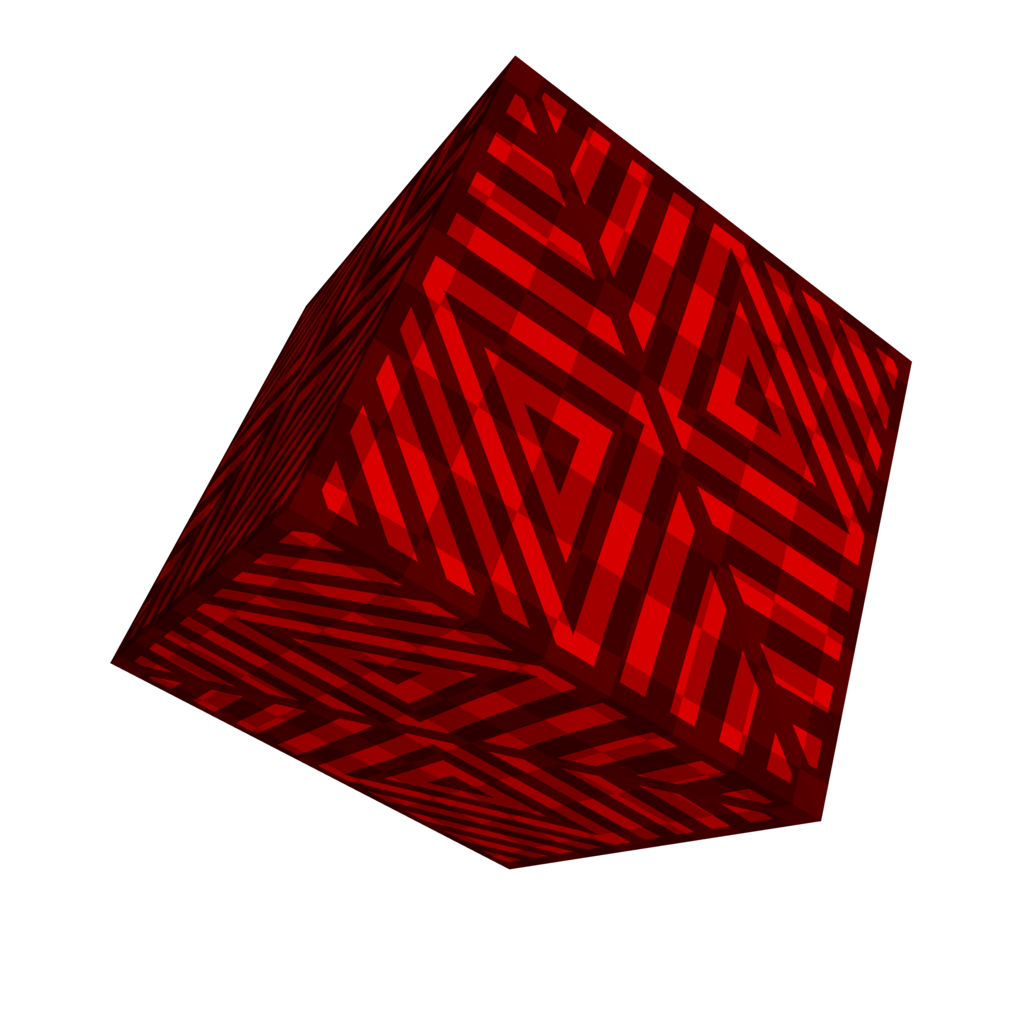
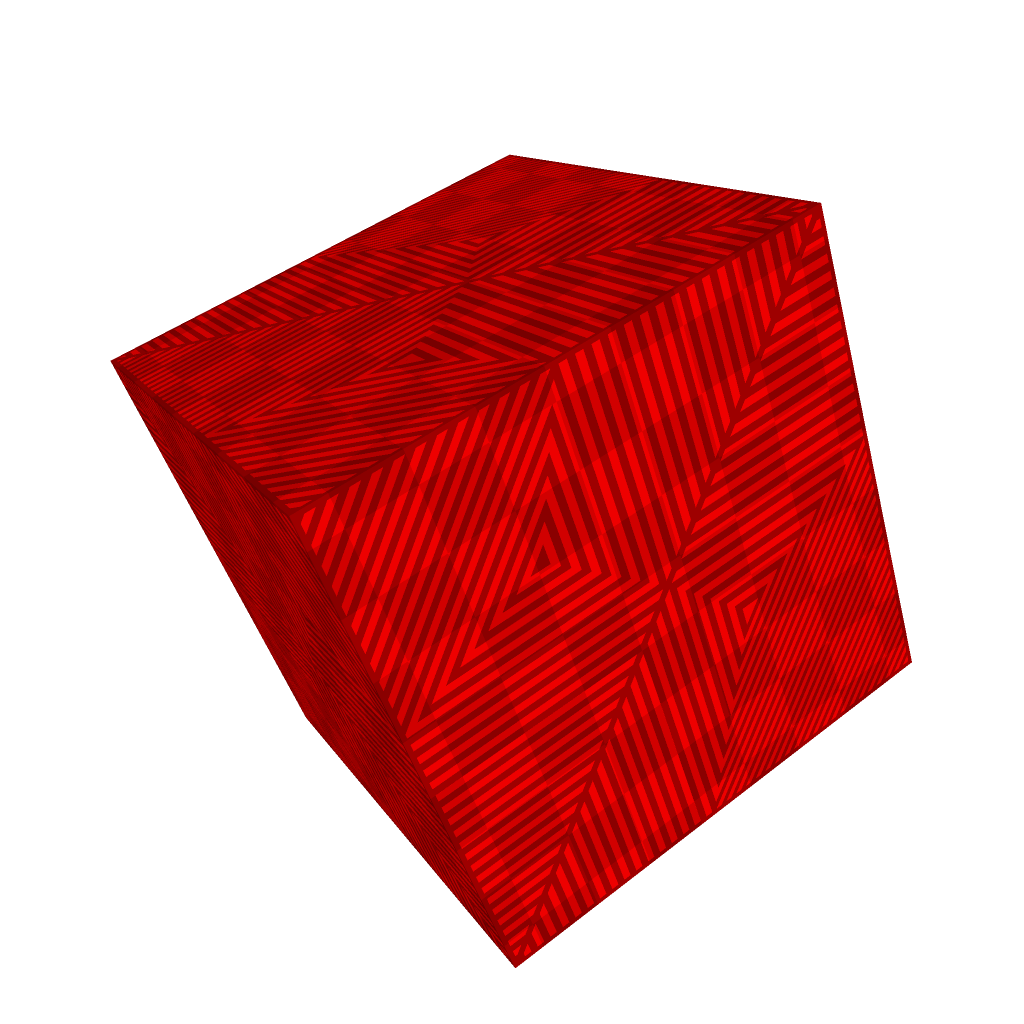
add Target::flip_vertically(), fix inadvertent flip (again)

diff --git a/src/basic.rs b/src/basic.rs
@@ -23,6 +23,17 @@ impl<Pixel> Target<Pixel> {
             pixels: vec![pixel; size.element_product() as usize],
         }
     }
+    /// Flip the pixels vertically.
+    pub fn flip_vertically(&mut self) {
+        for y in 0..(self.size.y / 2) {
+            let flipped_y = self.size.y - 1 - y;
+            let low_row = y * self.size.x;
+            let high_row = flipped_y * self.size.x;
+            for x in 0..self.size.x {
+                self.pixels.swap((low_row + x) as usize, (high_row + x) as usize);
+            }
+        }
+    }
 }
 
 /// Convert from linear RGB to sRGB

diff --git a/examples/cube.rs b/examples/cube.rs
@@ -70,7 +70,7 @@ fn main() {
         .collect();
 
     // render to the image
-    let image = render(
+    let mut image = render(
         img_size * 2, // supersampling at twice the resolution
         &bindings,
         &vertices,
@@ -78,6 +78,7 @@ fn main() {
         Target::new(UVec2::splat(img_size), Vec4::ZERO),
     );
 
+    image.flip_vertically();
     image.write_png("cube.png");
 }
 
